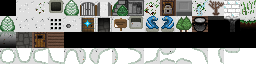
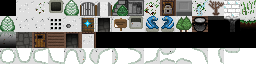
fixed graphical issues
added graphics for open UNLOCKED_DOOR
implemented these for all cases a unlocked door is opened or closed
changed Bookshelf description for floors 1 to 5
updated EMPTY_DECO description for SewerBossLevel
Changed water description for floors 1 to 5 to "Icy water"

Changed region(s): [[0.25, 0.5, 0.375, 0.75]]

diff --git a/src/com/shatteredicedungeon/levels/Terrain.java b/src/com/shatteredicedungeon/levels/Terrain.java
@@ -62,6 +62,8 @@ public class Terrain {
 	public static final int ALCHEMY_WALL = 33;
 	public static final int UNLOCKED_DOOR = 34;
 	public static final int ALCHEMY_SP = 35;
+	public static final int UNLOCKED_DOOR_OPEN_STONE = 36;
+	public static final int UNLOCKED_DOOR_OPEN_SNOW = 37;
 
 	public static final int WATER_TILES = 48;
 	public static final int WATER = 63;
@@ -85,16 +87,12 @@ public class Terrain {
 		flags[EMPTY_WELL] = PASSABLE;
 		flags[WATER] = PASSABLE | LIQUID | UNSTITCHABLE;
 		flags[WALL] = LOS_BLOCKING | SOLID | UNSTITCHABLE;
-		flags[ALCHEMY_WALL] = LOS_BLOCKING | SOLID | UNSTITCHABLE;
-		flags[ALCHEMY_SP] = flags[EMPTY] | UNSTITCHABLE;
 		flags[DOOR] = PASSABLE | LOS_BLOCKING | FLAMABLE | SOLID | UNSTITCHABLE;
 		flags[OPEN_DOOR] = PASSABLE | FLAMABLE | UNSTITCHABLE;
 		flags[ENTRANCE] = PASSABLE | SOLID;
 		flags[EXIT] = PASSABLE;
 		flags[EMBERS] = PASSABLE;
 		flags[LOCKED_DOOR] = LOS_BLOCKING | SOLID | UNSTITCHABLE;
-		flags[UNLOCKED_DOOR] = PASSABLE | LOS_BLOCKING | FLAMABLE | SOLID
-				| UNSTITCHABLE;
 		flags[PEDESTAL] = PASSABLE | UNSTITCHABLE;
 		flags[WALL_DECO] = flags[WALL];
 		flags[BARRICADE] = FLAMABLE | SOLID | LOS_BLOCKING;
@@ -120,6 +118,12 @@ public class Terrain {
 		flags[CHASM_FLOOR] = flags[CHASM];
 		flags[CHASM_FLOOR_SP] = flags[CHASM];
 		flags[CHASM_WATER] = flags[CHASM];
+		flags[ALCHEMY_WALL] = LOS_BLOCKING | SOLID | UNSTITCHABLE;
+		flags[UNLOCKED_DOOR] = PASSABLE | LOS_BLOCKING | FLAMABLE | SOLID
+				| UNSTITCHABLE;
+		flags[ALCHEMY_SP] = flags[EMPTY] | UNSTITCHABLE;
+		flags[UNLOCKED_DOOR_OPEN_STONE] = PASSABLE | FLAMABLE | UNSTITCHABLE;
+		flags[UNLOCKED_DOOR_OPEN_SNOW] = PASSABLE | FLAMABLE | UNSTITCHABLE;
 
 		for (int i = WATER_TILES; i < WATER_TILES + 16; i++) {
 			flags[i] = flags[WATER];

diff --git a/src/com/shatteredicedungeon/levels/Level.java b/src/com/shatteredicedungeon/levels/Level.java
@@ -1036,6 +1036,7 @@ public abstract class Level implements Bundlable {
 		case Terrain.EMPTY_SP:
 		case Terrain.EMPTY_DECO:
 		case Terrain.SECRET_TRAP:
+		case Terrain.ALCHEMY_SP:
 			return "Floor";
 		case Terrain.GRASS:
 			return "Grass";
@@ -1044,6 +1045,7 @@ public abstract class Level implements Bundlable {
 		case Terrain.WALL:
 		case Terrain.WALL_DECO:
 		case Terrain.SECRET_DOOR:
+		case Terrain.ALCHEMY_WALL:
 			return "Wall";
 		case Terrain.DOOR:
 			return "Closed door";
@@ -1059,6 +1061,10 @@ public abstract class Level implements Bundlable {
 			return "Locked door";
 		case Terrain.UNLOCKED_DOOR:
 			return "Unlocked door";
+		case Terrain.UNLOCKED_DOOR_OPEN_STONE:
+			return "Open door";
+		case Terrain.UNLOCKED_DOOR_OPEN_SNOW:
+			return "Open door";
 		case Terrain.PEDESTAL:
 			return "Pedestal";
 		case Terrain.BARRICADE:
@@ -1081,7 +1087,11 @@ public abstract class Level implements Bundlable {
 		case Terrain.INACTIVE_TRAP:
 			return "Triggered trap";
 		case Terrain.BOOKSHELF:
-			return "Bookshelf";
+			if(Dungeon.depth <= 5){
+				return "Dry trees";
+			} else {
+				return "Bookshelf";
+			}
 		case Terrain.ALCHEMY:
 			return "Alchemy pot";
 		default:

diff --git a/src/com/shatteredicedungeon/levels/SewerBossLevel.java b/src/com/shatteredicedungeon/levels/SewerBossLevel.java
@@ -305,7 +305,7 @@ public class SewerBossLevel extends RegularLevel {
 	public String tileName(int tile) {
 		switch (tile) {
 		case Terrain.WATER:
-			return "Murky water";
+			return "Icy water";
 		default:
 			return super.tileName(tile);
 		}
@@ -315,7 +315,7 @@ public class SewerBossLevel extends RegularLevel {
 	public String tileDesc(int tile) {
 		switch (tile) {
 		case Terrain.EMPTY_DECO:
-			return "Wet yellowish moss covers the floor.";
+			return "Cold winter snow covers the ground.";
 		default:
 			return super.tileDesc(tile);
 		}

diff --git a/src/com/shatteredicedungeon/actors/Char.java b/src/com/shatteredicedungeon/actors/Char.java
@@ -405,7 +405,7 @@ public abstract class Char extends Actor {
 	// TODO test this
 		if (Dungeon.level.map[pos] == Terrain.OPEN_DOOR) {
 			Door.leave( pos );
-		} else if (Dungeon.level.map[pos] == Terrain.UNLOCKED_EXIT){
+		} else if ((Dungeon.level.map[pos] == Terrain.UNLOCKED_DOOR_OPEN_STONE) || (Dungeon.level.map[pos] == Terrain.UNLOCKED_DOOR_OPEN_SNOW)){
 			Door.leaveUnlocked(pos);
 		}
 

diff --git a/src/com/shatteredicedungeon/levels/SewerLevel.java b/src/com/shatteredicedungeon/levels/SewerLevel.java
@@ -133,7 +133,7 @@ public class SewerLevel extends RegularLevel {
 	public String tileName( int tile ) {
 		switch (tile) {
 		case Terrain.WATER:
-			return "Murky water";
+			return "Icy water";
 		default:
 			return super.tileName( tile );
 		}

diff --git a/src/com/shatteredicedungeon/levels/features/Door.java b/src/com/shatteredicedungeon/levels/features/Door.java
@@ -50,7 +50,7 @@ public class Door {
 	}
 
 	public static void enterUnlocked(int pos) {
-		Level.set(pos, Terrain.UNLOCKED_EXIT);
+		Level.set(pos, Terrain.UNLOCKED_DOOR_OPEN_SNOW);
 		GameScene.updateMap(pos);
 		Dungeon.observe();
 
